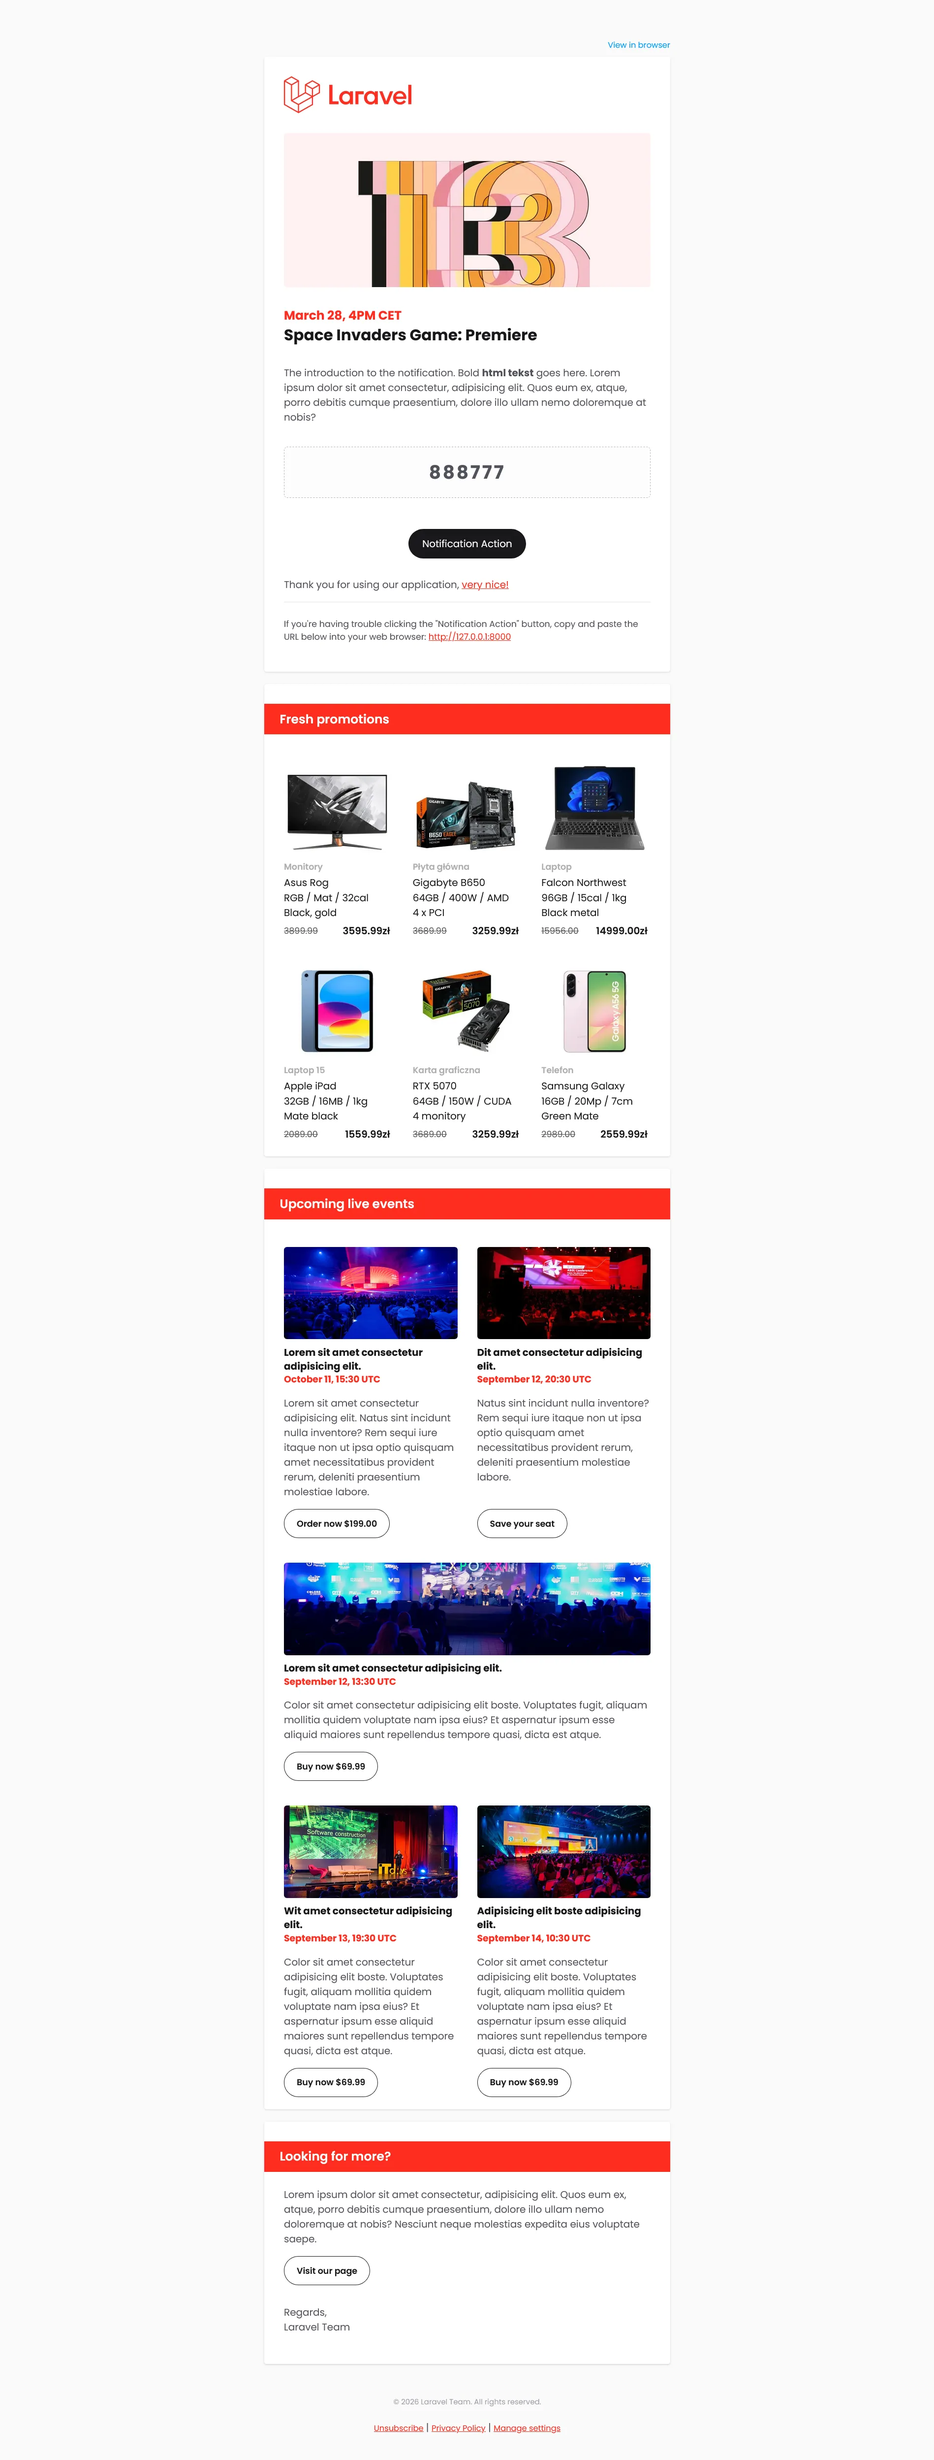
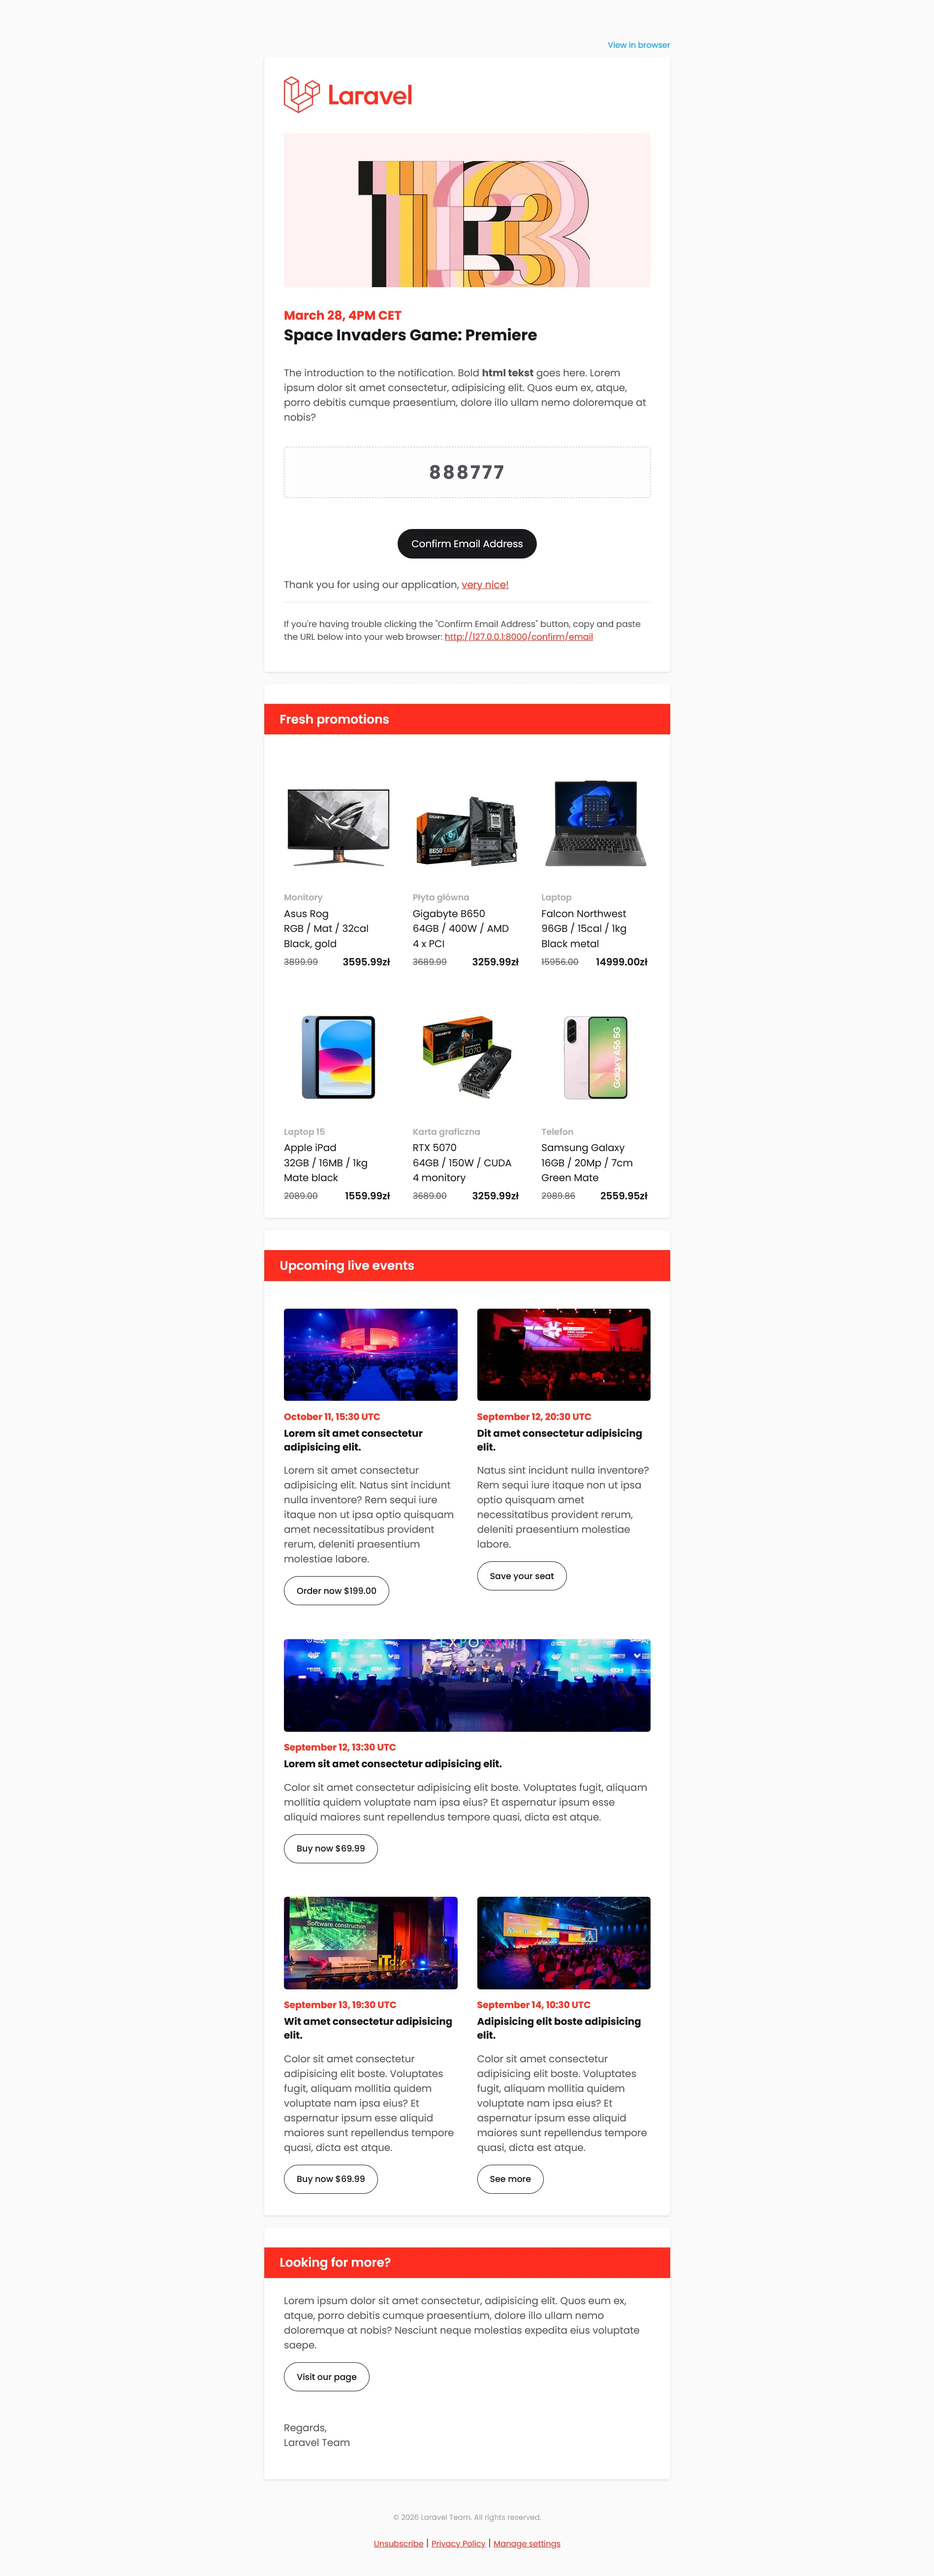
Product update

Changed region(s): [[0.2798, 0.0312, 0.715, 0.9682], [0.3109, 0.0312, 0.3419, 0.0625]]

diff --git a/resources/views/theme/default.css b/resources/views/theme/default.css
@@ -411,8 +411,17 @@ img {
     width: 100%;
     height: auto;
     max-height: 150px;
+    margin-bottom: 15px;
     border-radius: 5px;
     object-fit: cover;
+}
+
+.event-date {
+    display: inline-block;
+    font-size: 15px;
+    font-weight: 700;
+    color: #ff2d20;
+    margin-bottom: 5px;
 }
 
 .event-title {
@@ -421,25 +430,18 @@ img {
     height: auto;
     font-size: 16px;
     font-weight: 700;
-    margin-top: 10px;
+    margin-bottom: 15px;
     color: #18181b;
     overflow: hidden;
-}
-
-.event-date {
-    display: inline-block;
-    font-size: 15px;
-    font-weight: 700;
-    margin-bottom: 16px;
-    color: #ff2d20;
 }
 
 .event-button {
     float: left;
     display: inline;
     font-size: 14px;
-    font-weight: 600;
+    font-weight: 500;
     padding: 13px 20px;
+    margin-bottom: 15px;
     border-radius: 25px;
     text-decoration: none;
     color: #18181b;

diff --git a/src/Notifications/LaraNotificanion.php b/src/Notifications/LaraNotificanion.php
@@ -115,8 +115,8 @@ class LaraNotificanion extends Notification
             'title' => 'Adipisicing elit boste adipisicing elit.',
             'desc' => 'Color sit amet consectetur adipisicing elit boste. Voluptates fugit, aliquam mollitia quidem voluptate nam ipsa eius? Et aspernatur ipsum esse aliquid maiores sunt repellendus tempore quasi, dicta est atque.',
             'url' => 'https://example.com/product/55',
-            'button' => 'Buy now',
-            'price' => '$69.99',
+            // 'button' => 'Buy now',
+            // 'price' => '$69.99',
         ];
 
         $events = [
@@ -139,9 +139,8 @@ class LaraNotificanion extends Notification
             'line2' => 'RGB / Mat / 32cal',
             'line3' => 'Black, gold',
             'url' => 'https://example.com/product/55',
-            'price' => '3595.99',
+            'price' => '3595.99zł',
             'old_price' => '3899.99',
-            'currency' => 'zł',
         ];
 
         $product2 = [
@@ -151,9 +150,8 @@ class LaraNotificanion extends Notification
             'line2' => '64GB / 400W / AMD',
             'line3' => '4 x PCI',
             'url' => 'https://example.com/product/55',
-            'price' => '3259.99',
+            'price' => '3259.99zł',
             'old_price' => '3689.99',
-            'currency' => 'zł',
         ];
 
         $product3 = [
@@ -163,9 +161,8 @@ class LaraNotificanion extends Notification
             'line2' => '96GB / 15cal / 1kg ',
             'line3' => 'Black metal',
             'url' => 'https://example.com/product/55',
-            'price' => '14999.00',
+            'price' => '14999.00zł',
             'old_price' => '15956.00',
-            'currency' => 'zł',
         ];
 
         $product4 = [
@@ -175,9 +172,8 @@ class LaraNotificanion extends Notification
             'line2' => '32GB / 16MB / 1kg',
             'line3' => 'Mate black',
             'url' => 'https://example.com/product/55',
-            'price' => '1559.99',
+            'price' => '1559.99zł',
             'old_price' => '2089.00',
-            'currency' => 'zł',
         ];
 
         $product5 = [
@@ -187,9 +183,8 @@ class LaraNotificanion extends Notification
             'line2' => '64GB / 150W / CUDA',
             'line3' => '4 monitory',
             'url' => 'https://example.com/product/55',
-            'price' => '3259.99',
+            'price' => '3259.99zł',
             'old_price' => '3689.00',
-            'currency' => 'zł',
         ];
 
         $product6 = [
@@ -199,9 +194,8 @@ class LaraNotificanion extends Notification
             'line2' => '16GB / 20Mp / 7cm ',
             'line3' => 'Green Mate',
             'url' => 'https://example.com/product/55',
-            'price' => '2559.99',
-            'old_price' => '2989.00',
-            'currency' => 'zł',
+            'price' => '2559.95zł',
+            'old_price' => '2989.86',
         ];
 
         $products = [
@@ -215,7 +209,7 @@ class LaraNotificanion extends Notification
             ->subject('Events notification')
             ->greeting('Space Invaders Game: Premiere')
             ->line('The introduction to the notification. Bold <strong>html tekst</strong> goes here. Lorem ipsum dolor sit amet consectetur, adipisicing elit. Quos eum ex, atque, porro debitis cumque praesentium, dolore illo ullam nemo doloremque at nobis?')
-            ->action('Notification Action', url('/confirm/email'))
+            ->action('Confirm Email Address', url('/confirm/email'))
             ->line('Thank you for using our application, <a href="https://example.com" target="_blank">very nice!</a>')
             ->theme('lara::theme.default')
             ->markdown('lara::email.default', [

diff --git a/resources/views/components/product.blade.php b/resources/views/components/product.blade.php
@@ -1,13 +1,10 @@
 @php
-    $price = isset($product['price']) ? $product['price'] : null;
-    $sale = isset($product['old_price']) ? $product['old_price'] : null;
-    $currency = isset($product['currency']) ? $product['currency'] : "zł";
+    $url = isset($product['url']) ? $product['url'] : app()->request->getSchemeAndHttpHost();
 @endphp
 
 <div class="product-cell">
-
 @isset($product['img'])
-<a href="{{$product['url']}}" target="_blank">
+<a href="{{ $url }}" target="_blank">
 <img src="{{ $product['img'] }}" class="product-img">
 </a>
 @endisset
@@ -30,12 +27,12 @@
 @endisset
 
 <div class="product-prices">
-@isset($sale)
-<span class="product-sale-price" style="text-decoration: line-through">{{ $sale }}</span>
+@isset($product['old_price'])
+<span class="product-sale-price" style="text-decoration: line-through">{{ $product['old_price'] }}</span>
 @endisset
 
-@isset($product['url'])
-<x-lara::product-button :url="$product['url']" :price="$price" :currency="$currency"/>
+@isset($product['price'])
+<x-lara::product-button :url="$url" :price="$product['price']"/>
 @endisset
 </div>
 

diff --git a/resources/views/components/event.blade.php b/resources/views/components/event.blade.php
@@ -9,12 +9,12 @@
 <img src="{{ $event['img'] }}" class="event-img">
 @endisset
 
-@isset($event['title'])
-<div class="event-title">{{ $event['title'] }}</div>
-@endisset
-
 @isset($event['date'])
 <div class="event-date">{{ $event['date'] }}</div>
+@endisset
+
+@isset($event['title'])
+<div class="event-title">{{ $event['title'] }}</div>
 @endisset
 
 @isset($event['desc'])

diff --git a/resources/views/components/product-button.blade.php b/resources/views/components/product-button.blade.php
@@ -1,8 +1,8 @@
 @props([
     'url' => null,
     'price' => null,
-    'currency' => 'zł',
 ])
+
 @if($price)
-<a href="{{ $url }}" class="product-button">{{ $price }}@lang($currency)</a>
+<a href="{{ $url }}" class="product-button">{{ $price }}</a>
 @endif

diff --git a/resources/views/components/event-button.blade.php b/resources/views/components/event-button.blade.php
@@ -1,6 +1,6 @@
 @props([
-    'price' => null,
     'url' => null,
+    'price' => null,
     'text' => 'See more',
 ])
 @if($price)
